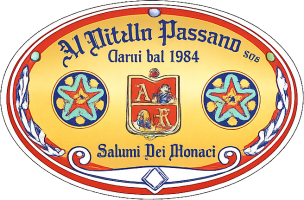
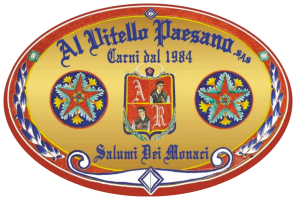
Target Communication in linea, Vitello Paesano rifatto, Medea senza cifra
Target e' il secondo marchio "a due facce" dopo Athena, e la scelta non e'
andata a occhio: con --schiarisci il giallo scende da 0,531 a 0,469 e il blu
sale da 0,447 a 0,553, cioe' i colori del marchio si spostano. Con
--schiarisci-scuri restano dov'erano e la scritta passa comunque da scura a
chiara, con i pixel scuri dal 10,3% allo 0,3%.

Il logo nuovo del Vitello Paesano e' un file diverso, non un ritocco
(1337x905 contro 703x476), quindi e' stato sostituito anche l'originale
conservato in loghi-png. Trattamento invariato: e' gia' chiaro e schiarirlo
lo impasterebbe.

Il premio di Medea passa da cinque lampade a tre e perde il valore: erano
50 euro per cinque, per tre non l'ha detto nessuno, e su un premio vero
meglio nessuna cifra che una inventata.

Il Tabacchino della Chiesa era stato aggiunto al LEGGIMI ma non a
SPONSOR_ATTIVITA: senza quella riga il logo non comparirebbe nemmeno
mettendo il PNG, perche' la barra parte dall'elenco in codice.

diff --git a/src/server.js b/src/server.js
@@ -734,7 +734,10 @@ const PREMI = [
     nota: 'Con il personal trainer Claudio De Maio' },
   { pos: 6,  nome: 'Trattamento', offerto: 'Fatima Leo Salon & Academy', valore: '50 €', icona: 'candle' },
   { pos: 7,  nome: 'Buono spesa', offerto: 'Day by Day Multibrand Siano', valore: '50 €', icona: 'ticket' },
-  { pos: 8,  nome: '5 lampade',   offerto: 'Centro Estetico Medea', valore: '50 €', icona: 'sun' },
+  // Senza `valore`: erano cinque lampade da 50 €, ora sono tre e quanto valgano
+  // non l'ha detto nessuno. Meglio non scrivere niente che scrivere una cifra
+  // sbagliata su un premio vero. La scheda regge: il valore è facoltativo.
+  { pos: 8,  nome: '3 lampade',   offerto: 'Centro Estetico Medea', icona: 'sun' },
   { pos: 9,  nome: 'Friggitrice ad aria', offerto: 'Telefonia Eredi Leo', valore: '40–50 €', icona: 'flame' },
   { pos: 10, nome: 'Macchinetta del caffè',  icona: 'coffee', foto: ['caffe.webp'] },
   { pos: 11, nome: 'Buono acquisto', offerto: 'Cycling Botta', valore: '30 €', icona: 'bike',
@@ -798,6 +801,7 @@ const SPONSOR_ATTIVITA = [
   { file: 'parrucchiere-tony.png',   nome: 'Parrucchiere Tony' },
   { file: 'bar-ideal.png',           nome: 'Bar Ideal' },
   { file: 'gelateria-gerry.png',     nome: 'Gelateria Gerry' },
+  { file: 'tabacchino.png',          nome: 'Tabacchino della Chiesa' },
   // ── Non sul foglio, arrivati dopo ──
   { file: 'target-communication.png', nome: 'Target Communication' },
   { file: 'di-filippo.png',          nome: 'Di Filippo Fotografi' },
